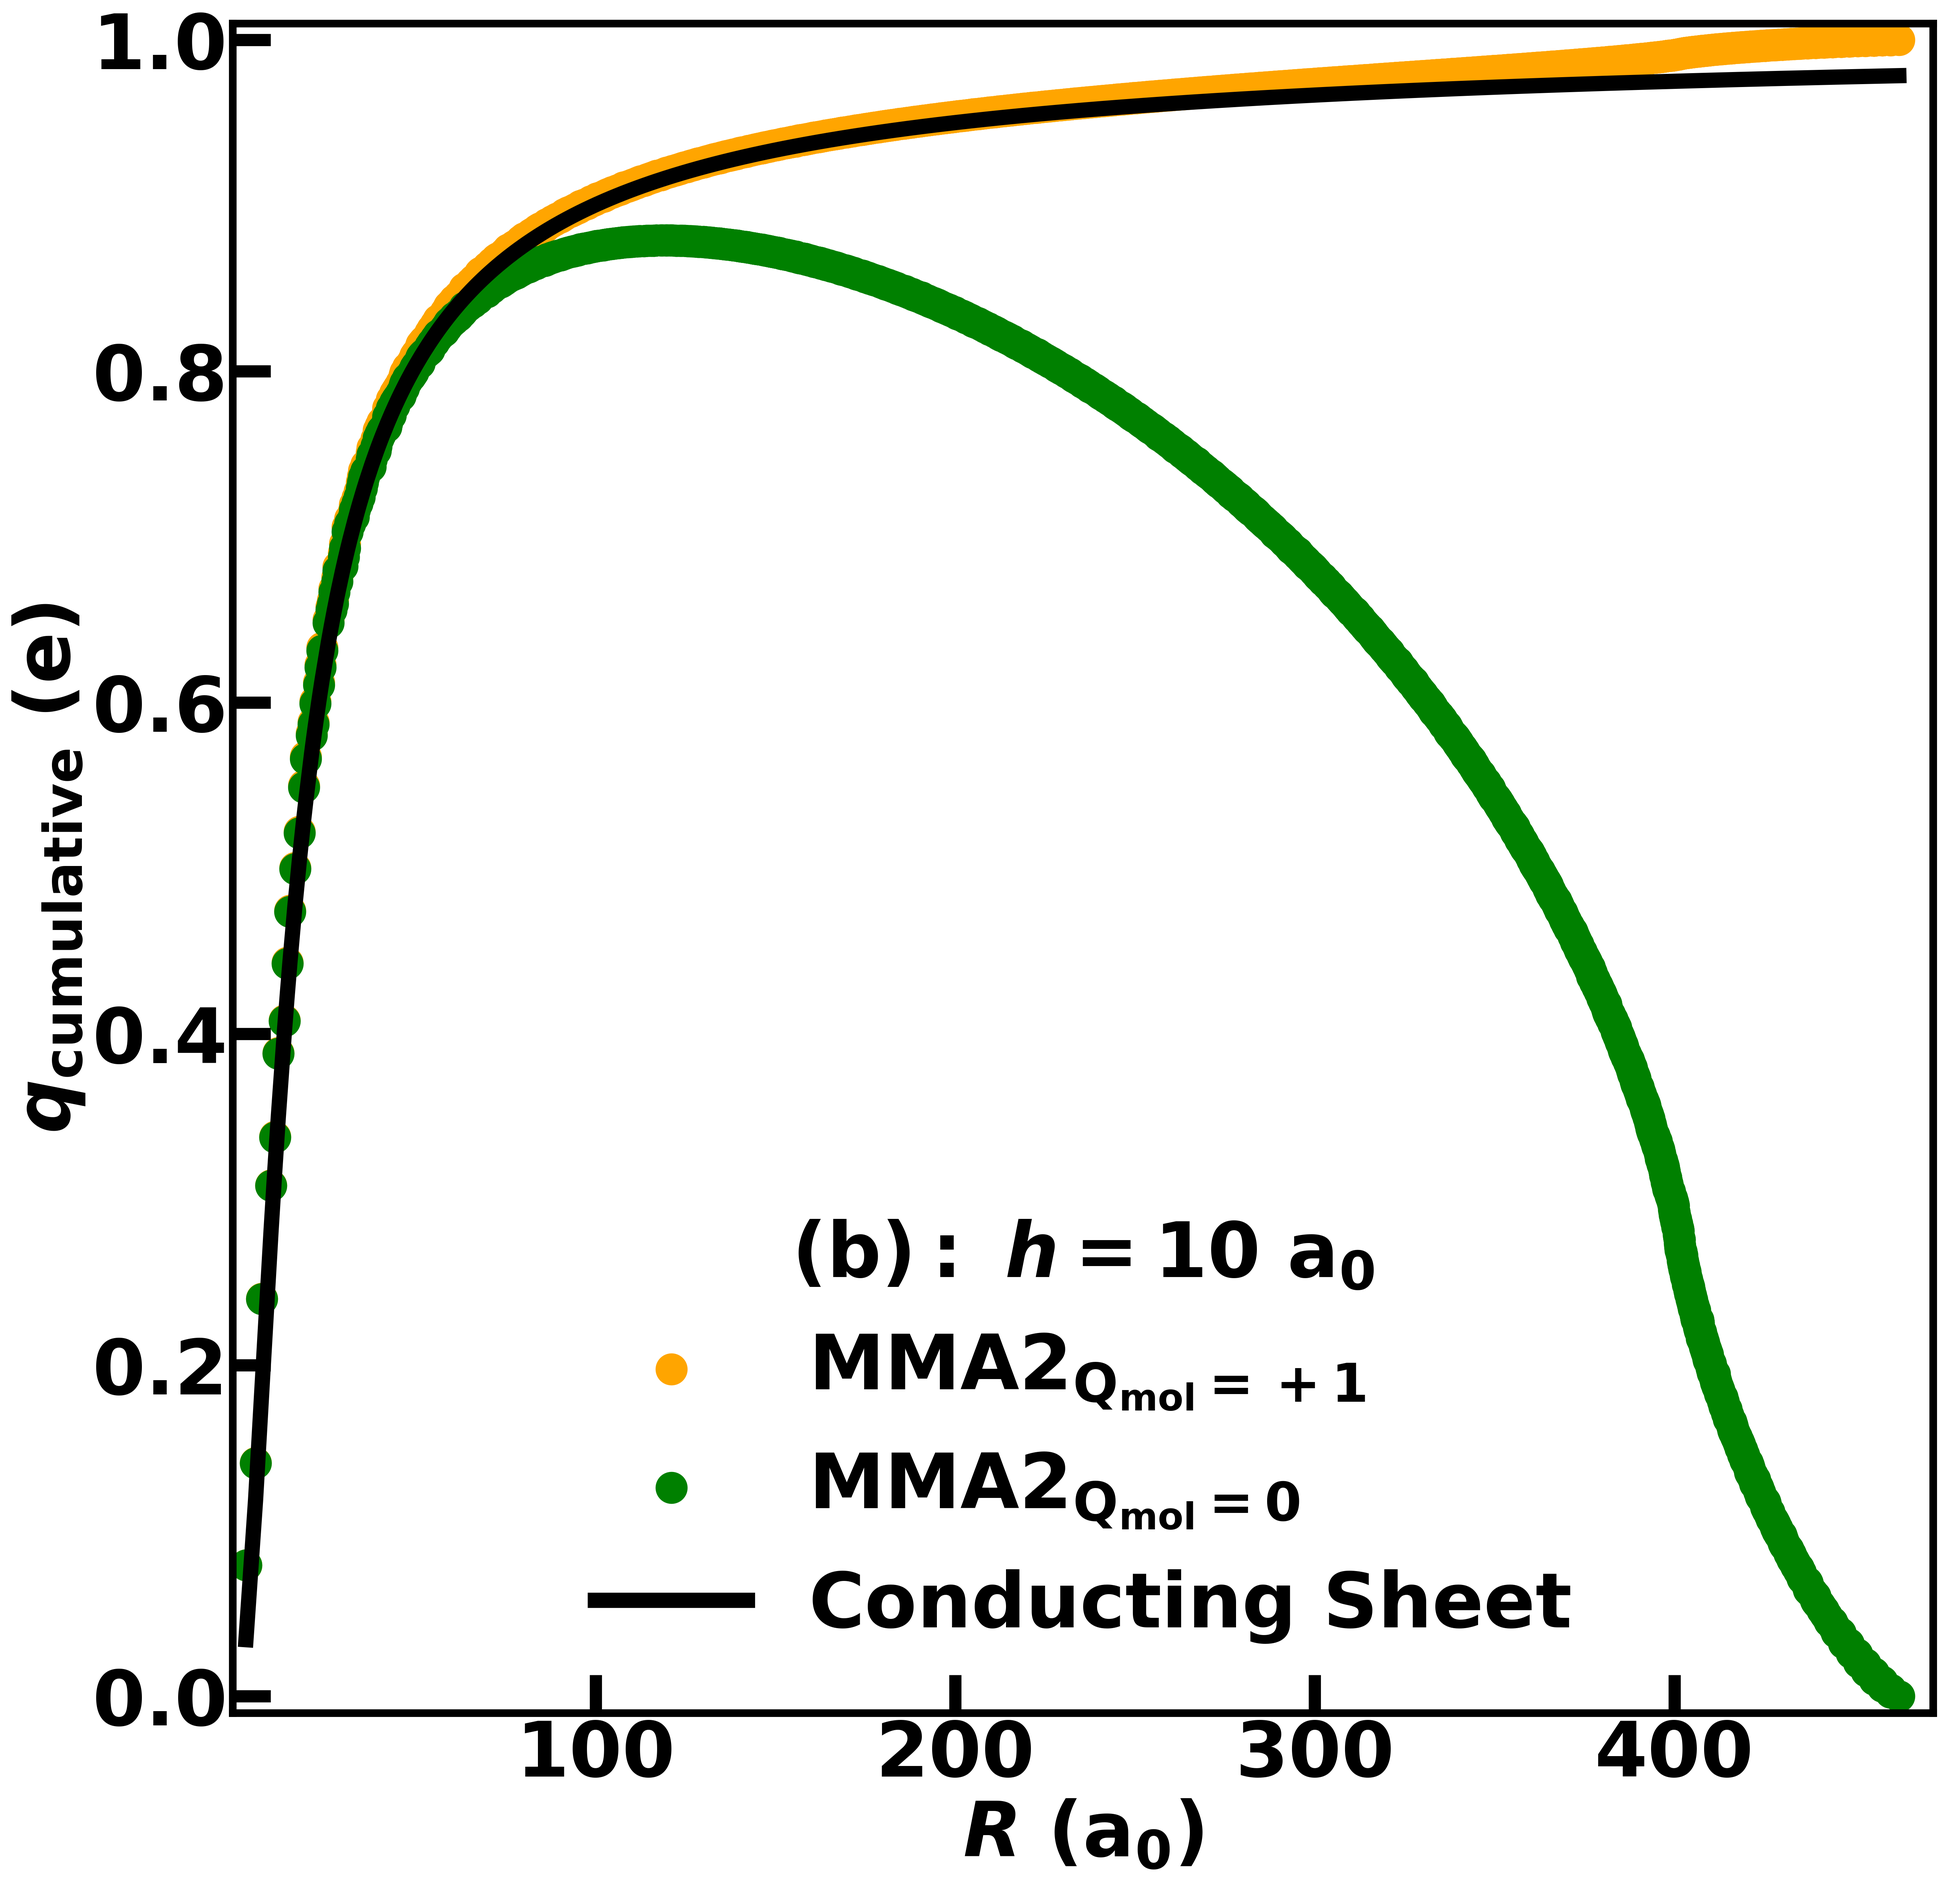
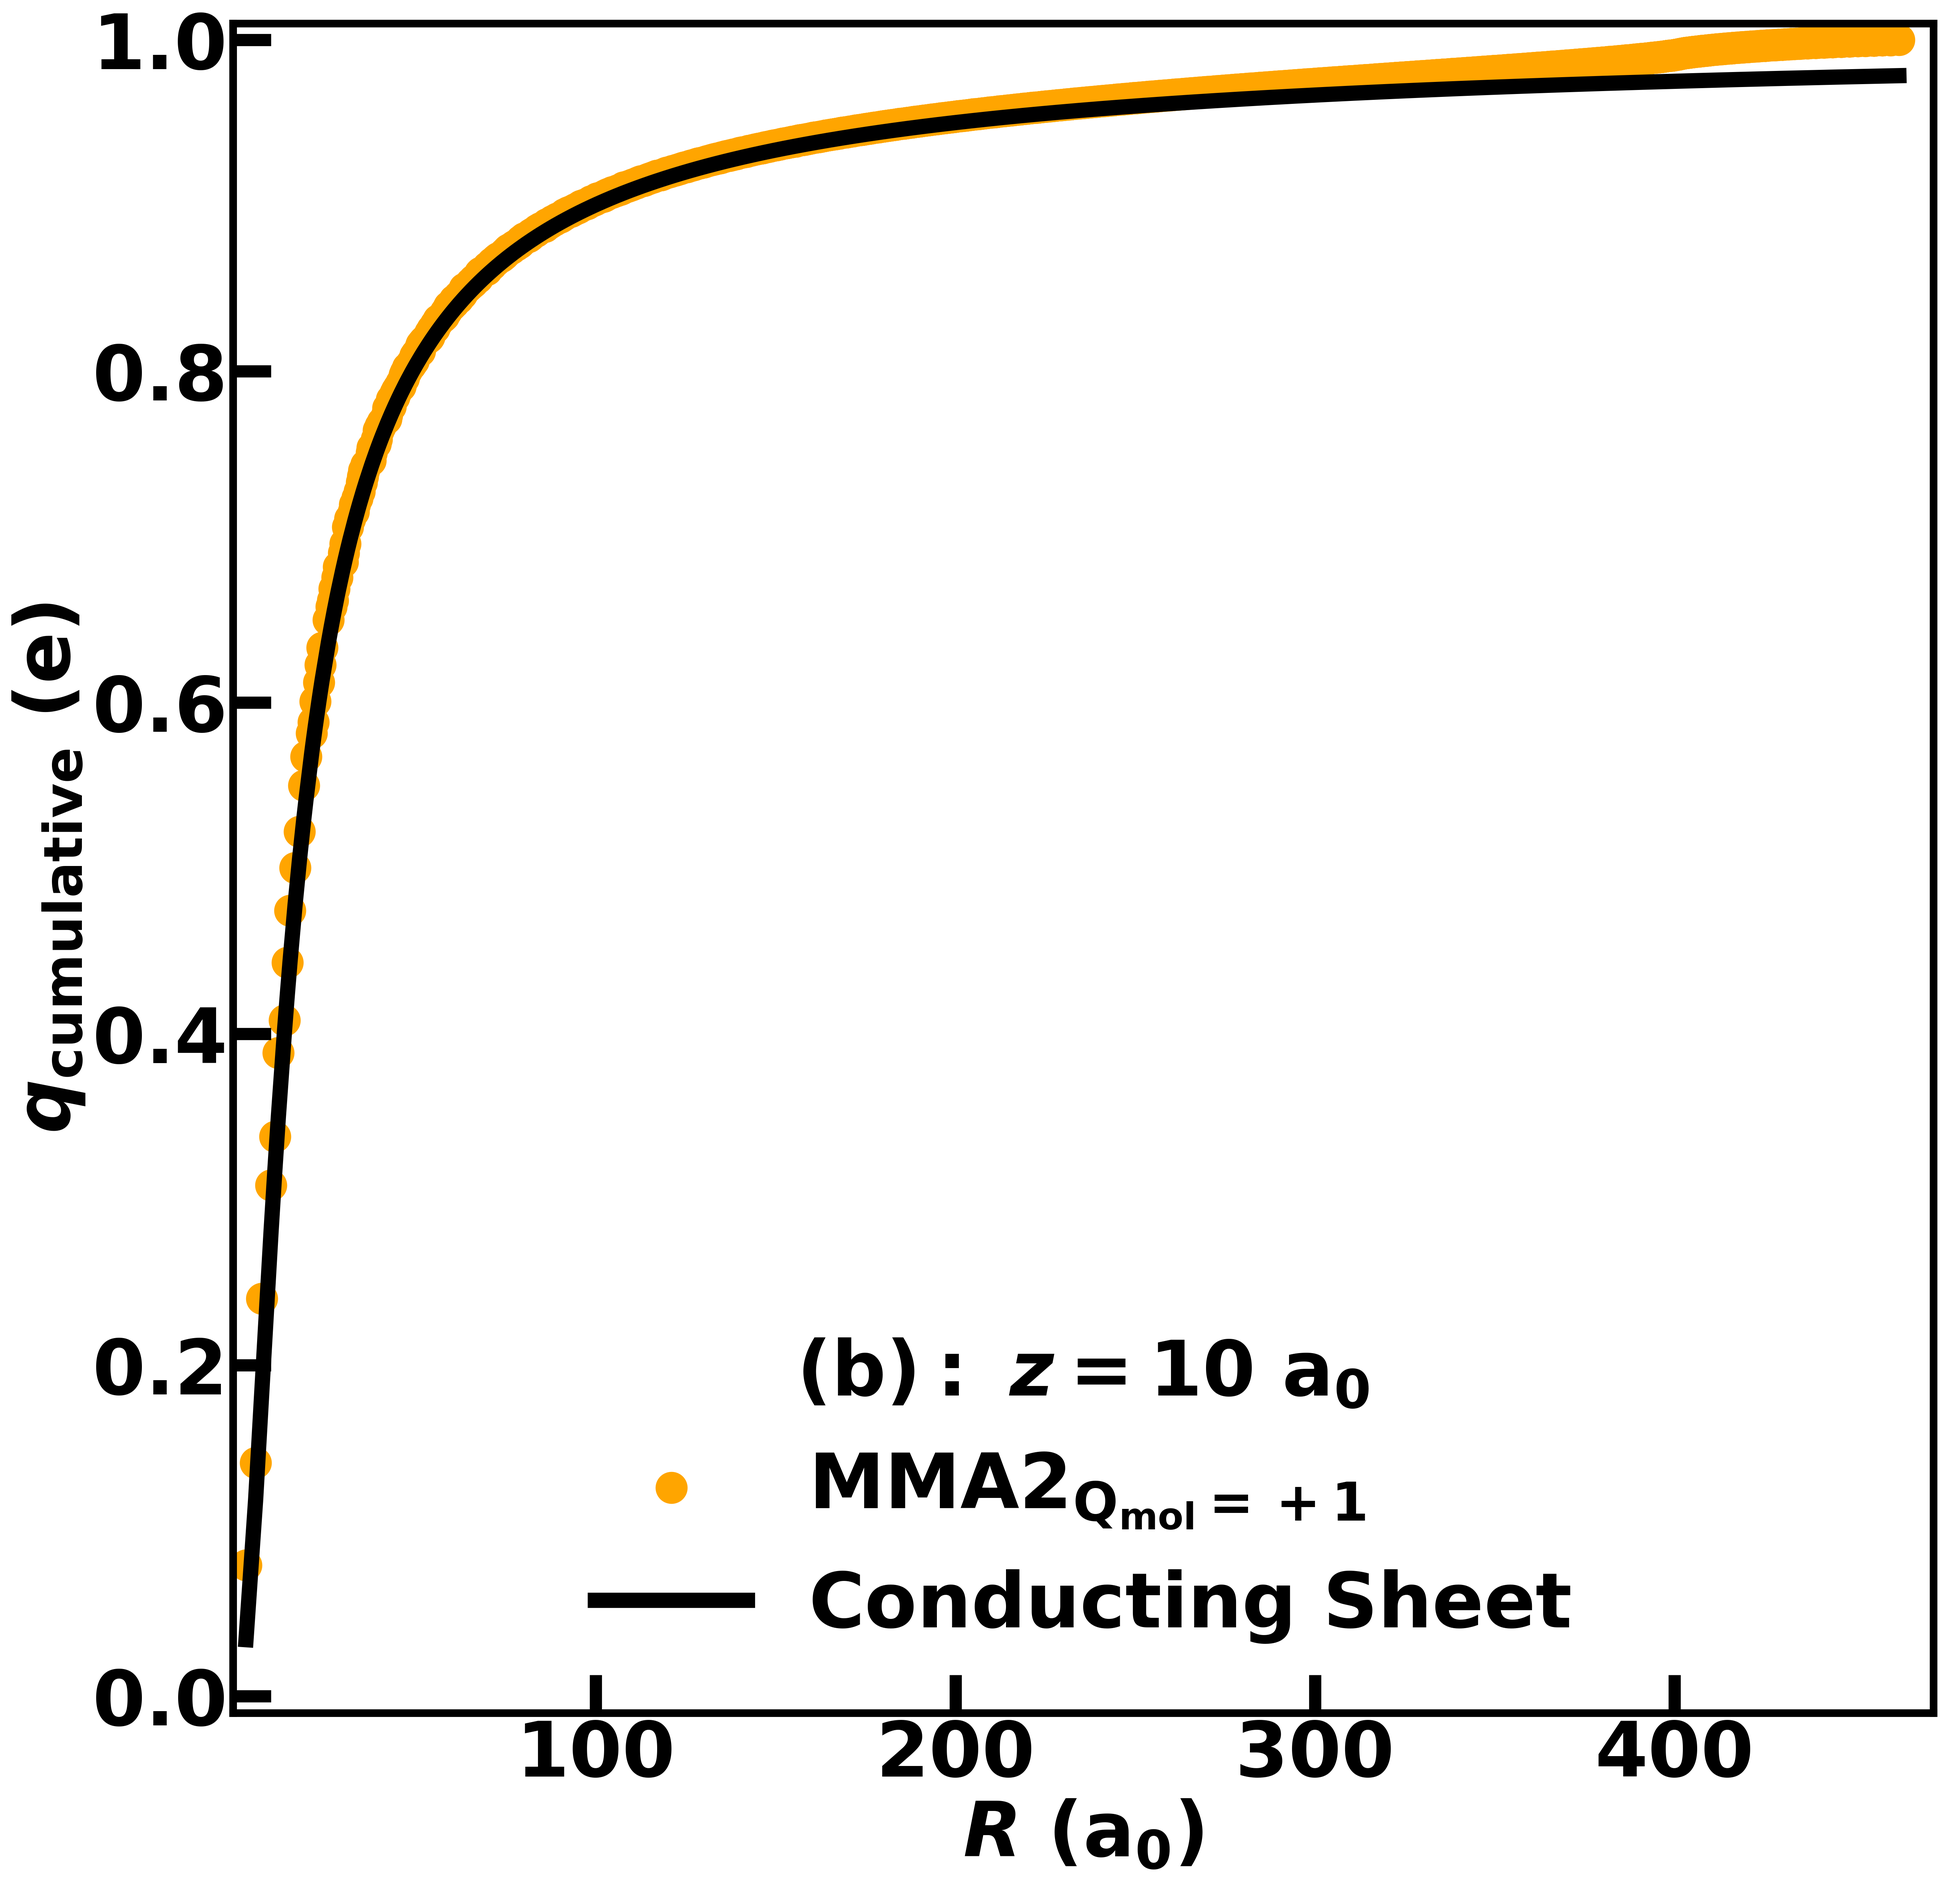
Editing images.

diff --git a/data/polarization_potential/figure_5/figure_5.py b/data/polarization_potential/figure_5/figure_5.py
@@ -18,18 +18,8 @@ rc('axes',linewidth=5,edgecolor='k')
 
 x_dat=np.arange(5,10,0.01)
 
-def func(x, a, b):  
-    return a/np.abs(x-b)
-
 def func_fixed(x,b):  
     return -6.802846561497/np.abs(x-b)
-
-def func_fixed_2(x,b):  
-    return -6.8358/np.abs(x-b)
-
-def func_fixed_3(x,a):  
-    return a/np.abs(x-1.98)
-
 
 pot = []
 for filename in sorted(glob.glob("figure_5.csv", recursive=True)):
@@ -41,13 +31,15 @@ for filename in sorted(glob.glob("figure_5.csv", recursive=True)):
     MMA2 = data_array[:,1]*27.211386245988
     impot = data_array[:,2]*27.211386245988
 
-
 fig, axs = plt.subplots(1, 1, figsize=(25,25))
 axs.scatter(z,impot,color="black",s=2000,linestyle='-',marker="s",label=r"$\mathrm{-6.8028/|}\mathit{z}\mathrm{-1.98|}$") 
 axs.plot(x_dat,-27.211386245988/(4*np.abs(x_dat-1.9804329786078072)),color="black",markersize=2,linewidth=8,linestyle='-')
 
-axs.scatter(z,MMA2,color="green",s=2000,marker="^", label=r'$\mathrm{MMA2}$')
-axs.set_xlabel(r"$\mathit{z} \ (a_0)$")    
+popt4, pcov4 = curve_fit(func_fixed,z,MMA2) 
+axs.scatter(z,MMA2,color="green",s=2000,marker="^", label=r"$MMA2: -6.8028\mathrm{{/|}}\mathit{{z}}-{:.4f}\mathrm{{|}}$".format(popt4[0]))
+axs.plot(x_dat,func_fixed(x_dat,*popt4),color="green",markersize=2,linewidth=8,linestyle='-')
+
+axs.set_xlabel(r"$\mathit{z} \ (a_0)$")  
 axs.set_xticks([5,6,7,8,9,10])
 axs.xaxis.set_tick_params(direction="in",length=25,width=8)
 axs.yaxis.set_tick_params(direction="in",length=25,width=8)

diff --git a/data/charge_density/nanoflakes/cumulative/h_equals_10/figure_4b.py b/data/charge_density/nanoflakes/cumulative/h_equals_10/figure_4b.py
@@ -82,7 +82,7 @@ axs.grid(False)
 axs.xaxis.set_tick_params(direction="in",length=25,width=8)
 axs.yaxis.set_tick_params(direction="in",length=25,width=8)
 axs.set_xticks([100,200,300,400])
-axs.legend(loc=8, frameon=False, title=r"$\mathrm{(b): \ \mathit{h}=10 \ a_{0}}$")
+axs.legend(loc=8, frameon=False, title=r"$\mathrm{(b): \ \mathit{z}=10 \ a_{0}}$")
 axs.set_xlabel(r"$\mathit{R} \ (a_{0})$")
 axs.set_ylabel(r"$\mathit{q}_{cumulative} \ (e)$")
 plt.savefig("figure_4_b.png",dpi=300,bbox_inches='tight')

diff --git a/data/charge_density/nanoflakes/cumulative/h_equals_5/figure_4a.py b/data/charge_density/nanoflakes/cumulative/h_equals_5/figure_4a.py
@@ -82,7 +82,7 @@ axs.grid(False)
 axs.xaxis.set_tick_params(direction="in",length=25,width=8)
 axs.yaxis.set_tick_params(direction="in",length=25,width=8)
 axs.set_xticks([100,200,300,400])
-axs.legend(loc=8, frameon=False, title=r"$\mathrm{(a): \ \mathit{h}=5 \ a_{0}}$")
+axs.legend(loc=8, frameon=False, title=r"$\mathrm{(a): \ \mathit{z}=5 \ a_{0}}$")
 axs.set_xlabel(r"$\mathit{R} \ (a_{0})$")
 axs.set_ylabel(r"$\mathit{q}_{Cumulative} \ (e)$")
 plt.savefig("figure_4_a.png",dpi=300,bbox_inches='tight')

diff --git a/data/polarization_potential/figure_6/figure_6.py b/data/polarization_potential/figure_6/figure_6.py
@@ -45,7 +45,7 @@ axs.xaxis.set_tick_params(direction="in",length=25,width=8)
 axs.yaxis.set_tick_params(direction="in",length=25,width=8)
 axs.grid(False)
 axs.legend(loc="best", frameon=False, fontsize=65)
-axs.set_ylabel(r"$\mathit{E}_{pol} \ \mathrm{\left( eV \right)}$")
+axs.set_ylabel(r"$\mathit{E}_{int} \ \mathrm{\left( eV \right)}$")
 
 fig.set_tight_layout(True)
 plt.savefig("figure_6.png", dpi=300)
